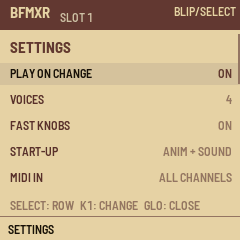
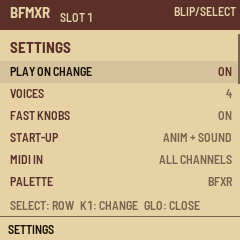
0.7: 20 palettes, FX shakes the screen, EDIT fires an energy ball
GLO > PALETTE: 20 palettes, each checked for contrast (ink >= 7, labels >= 4.5,
the header >= 3, selected values >= 3), seen at once and kept. FX shakes the
whole picture for 280 ms, dying away; EDIT sends a 12x8 pixel energy ball (drawn
2x2, a flickering tail and sparks) across the header in 450 ms.

Claude-Session: https://claude.ai/code/session_01P2YZfcTCoPyuHSCDNbEdpU

diff --git a/app/app.c b/app/app.c
@@ -13,20 +13,54 @@
  *   SAVE            keep the sound (it is back at the next power-on); MASTER the volume
  *   SAVE + a white key   store the sound in that slot (16 slots, one a white key)
  *   SEL + a white key    recall the slot's sound and play it
- *   GLO             the settings: play on change, voices, fast knobs, start-up, MIDI in channel
+ *   GLO             the settings: play on change, voices, fast knobs, start-up, MIDI in channel, palette
  * The slots go to and from a computer over USB SysEx (the site's Library page): see "the slots over USB" below. */
 #include "fastmath.h"
 #include "bfxr.h"
 #include "splash_data.h"                         /* the start-up animation and sound (tools/gen_splash.py) */
 
 /* the colours: bfxr2's tan ground, cream, maroon */
-#define K_BG RGB(231, 209, 167)
-#define K_ROW RGB(214, 194, 158)
-#define K_TRACK RGB(204, 189, 161)
-#define K_INK RGB(30, 16, 12)
-#define K_LABEL RGB(94, 48, 40)
-#define K_BAR RGB(102, 57, 49)
-#define K_SOFT RGB(147, 116, 98)
+/* the palettes (GLO > PALETTE): ground, row, track, ink, label, accent, soft; the row, track and soft blended from the
+ * ground and the ink. Each checked for contrast (WCAG): ink on the ground >= 7, labels >= 4.5, the ground's colour on
+ * the accent (the header) >= 3, the accent on a row (a selected value) >= 3 */
+typedef struct { const char *name; uint16_t c[7]; } kpal_t;
+static const kpal_t KPALS[] = {
+    {"BFXR", {0xE694, 0xD613, 0xC591, 0x1881, 0x5985, 0x5985, 0x7B2A}},
+    {"NIGHT", {0x0862, 0x2104, 0x3186, 0xEF7E, 0xAD57, 0x7D5F, 0x8C51}},
+    {"POCKET", {0xC70A, 0xB689, 0xA608, 0x08E1, 0x1A23, 0x1A23, 0x5BA5}},
+    {"CGA", {0x0000, 0x10A2, 0x2945, 0xFFFF, 0x57FF, 0xFABF, 0x8C71}},
+    {"AMBER", {0x1060, 0x20C1, 0x3942, 0xFDEB, 0xD467, 0xFCA3, 0x9366}},
+    {"MINT", {0xE7BD, 0xD73B, 0xC6B9, 0x1184, 0x2B09, 0x13CB, 0x6C4F}},
+    {"OCEAN", {0x08C5, 0x1947, 0x29C9, 0xDF7F, 0x85BB, 0x3D5E, 0x7C74}},
+    {"SUNSET", {0x2885, 0x3906, 0x4988, 0xFF19, 0xF511, 0xFB6A, 0x9C30}},
+    {"BUBBLEGUM", {0xFEFD, 0xEE7B, 0xE5F9, 0x3845, 0x914C, 0xD150, 0x9350}},
+    {"MONO", {0x0000, 0x10A2, 0x2945, 0xFFFF, 0xAD55, 0xCE59, 0x8C71}},
+    {"PAPER", {0xF79D, 0xE71A, 0xD698, 0x18E3, 0x5AAA, 0x2945, 0x7BEE}},
+    {"HI-CON", {0x0000, 0x10A2, 0x2945, 0xFFFF, 0xFF40, 0xFF40, 0x8C71}},
+    {"VAPOR", {0x1846, 0x28E8, 0x416A, 0xF73F, 0x7EFE, 0xFAD9, 0x9414}},
+    {"FOREST", {0x1102, 0x2184, 0x3206, 0xE77A, 0xAE51, 0x7DEB, 0x848F}},
+    {"LAVA", {0x1840, 0x28C2, 0x3965, 0xFF7B, 0xF4AC, 0xFA83, 0x942F}},
+    {"ICE", {0xEF9F, 0xD71D, 0xC69B, 0x08E5, 0x32D0, 0x1B75, 0x73F1}},
+    {"CANDY", {0xFFDB, 0xEF3A, 0xE6B8, 0x38A8, 0x79F1, 0x9159, 0x93D1}},
+    {"8-BIT", {0x0000, 0x10A2, 0x2945, 0xFFFF, 0x3DFF, 0xE00B, 0x8C51}},
+    {"BREADBIN", {0x4190, 0x4A11, 0x5A73, 0xE73F, 0xB5BE, 0xA4BF, 0x9CB9}},
+    {"MIDNIGHT", {0x0043, 0x10C5, 0x2167, 0xD6FF, 0x8CB9, 0xFE4A, 0x73F2}},
+};
+#define NPALS ((uint32_t)(sizeof KPALS / sizeof KPALS[0]))
+static uint16_t kc[7];
+#define K_BG kc[0]
+#define K_ROW kc[1]
+#define K_TRACK kc[2]
+#define K_INK kc[3]
+#define K_LABEL kc[4]
+#define K_BAR kc[5]
+#define K_SOFT kc[6]
+static void pal_apply(uint32_t i)
+{
+    uint32_t k;
+    for (k = 0; k < 7u; k++)
+        kc[k] = KPALS[i % NPALS].c[k];
+}
 
 #define SET_MAGIC 0x42465831u            /* "BFX1": the settings record; another magic loads a fresh sound */
 typedef struct {
@@ -42,7 +76,8 @@ typedef struct {
     uint8_t fast_knobs;                  /* 1: a fast turn moves 3x */
     uint8_t startup;                     /* 0 animation and sound, 1 animation only, 2 off */
     uint8_t midi_ch;                     /* MIDI in: 0 every channel, 1 .. 16 one */
-    uint8_t cfg_rsv[3];
+    uint8_t palette;                     /* KPALS */
+    uint8_t cfg_rsv[2];
 } settings_t;
 #define SET_OLD_SIZE ((uint32_t)__builtin_offsetof(settings_t, play_on_change))   /* the record before the menu's settings */
 static settings_t set;
@@ -194,7 +229,8 @@ static void cfg_defaults(void)
     set.fast_knobs = 1;
     set.startup = 0;
     set.midi_ch = 0;
-    set.cfg_rsv[0] = set.cfg_rsv[1] = set.cfg_rsv[2] = 0;
+    set.palette = 0;
+    set.cfg_rsv[0] = set.cfg_rsv[1] = 0;
 }
 
 static void settings_fresh(void)
@@ -222,7 +258,13 @@ static void clamp_sound(float *p)                /* a stored or received sound, 
     }
 }
 
+static void app_init_settings(void);
 void app_init(void)
+{
+    app_init_settings();
+    pal_apply(set.palette);
+}
+static void app_init_settings(void)
 {
     uint32_t k;
     app_panic();                                 /* (silence: a restart in the simulator keeps the old RAM) */
@@ -243,7 +285,7 @@ void app_init(void)
     }
     clamp_sound(set.p);
     if (set.play_on_change > 1u || set.voices < 1u || set.voices > NVOICES || set.fast_knobs > 1u ||
-        set.startup > 2u || set.midi_ch > 16u)
+        set.startup > 2u || set.midi_ch > 16u || set.palette >= NPALS)
         cfg_defaults();
 }
 
@@ -270,6 +312,7 @@ static struct {
     int32_t playing;                    /* as last drawn */
     uint8_t save_used;                   /* SAVE is held and a white key stored a slot: no plain save on release */
     uint8_t menu, menu_row;              /* the GLO menu is open; its row */
+    uint32_t shake_t0, shot_t0;          /* FX's screen shake, EDIT's energy ball: when they began (0: none) */
     uint8_t redraw;
 } ui;
 
@@ -697,8 +740,9 @@ int app_sysex(const uint8_t *p, uint32_t n)      /* the bytes between F0 and F7 
 /* ------------------------------------------------------------- the GLO menu --- */
 /* GLO opens and closes it (HOME closes it too): SELECT picks a row, K1 or ALGO changes it. Closing keeps the settings
  * (with the sound, as SAVE does). The keys, PLAY and the octave work as ever meanwhile. */
-enum { MENU_POC, MENU_VOICES, MENU_FAST, MENU_STARTUP, MENU_MIDI, MENU_ROWS };
-static const char *const MENU_LABEL[MENU_ROWS] = {"PLAY ON CHANGE", "VOICES", "FAST KNOBS", "START-UP", "MIDI IN"};
+enum { MENU_POC, MENU_VOICES, MENU_FAST, MENU_STARTUP, MENU_MIDI, MENU_PALETTE, MENU_ROWS };
+static const char *const MENU_LABEL[MENU_ROWS] = {"PLAY ON CHANGE", "VOICES", "FAST KNOBS", "START-UP", "MIDI IN",
+                                                  "PALETTE"};
 
 static void menu_value(uint32_t row, char *t)
 {
@@ -713,6 +757,7 @@ static void menu_value(uint32_t row, char *t)
         break;
     case MENU_FAST: text_cat(t, set.fast_knobs ? "ON" : "OFF"); break;
     case MENU_STARTUP: text_cat(t, SU[set.startup % 3u]); break;
+    case MENU_PALETTE: text_cat(t, KPALS[set.palette % NPALS].name); break;
     default:
         if (!set.midi_ch)
             text_cat(t, "ALL CHANNELS");
@@ -741,6 +786,10 @@ static void menu_change(int32_t e)
     case MENU_VOICES: set.voices = (uint8_t)clamp((int32_t)set.voices + d, 1, NVOICES); break;
     case MENU_FAST: set.fast_knobs ^= 1u; break;
     case MENU_STARTUP: set.startup = (uint8_t)wrapi((int32_t)set.startup + d, 0, 2); break;
+    case MENU_PALETTE:
+        set.palette = (uint8_t)wrapi((int32_t)set.palette + d, 0, (int32_t)NPALS - 1);
+        pal_apply(set.palette);                  /* (seen at once) */
+        break;
     default: set.midi_ch = (uint8_t)wrapi((int32_t)set.midi_ch + d, 0, 16); break;
     }
     set_dirty = 1;
@@ -799,8 +848,10 @@ static void input(void)
             continue;                            /* (the menu open: the rest wait) */
         if (k == B_PLAY)
             play_now();
-        else if (k == B_EDIT)
+        else if (k == B_EDIT) {
             generate(set.gen);
+            ui.shot_t0 = plat_ms() | 1u;         /* an energy ball across the header */
+        }
         else if (k == B_FX) {
             bfxr_sound_t s;
             sound_get(&s);
@@ -808,6 +859,7 @@ static void input(void)
             bfxr_mutate(&s);
             sound_put(&s);
             app_say("MUTATED", "");
+            ui.shake_t0 = plat_ms() | 1u;        /* the screen shakes */
             play_now();
         } else if (k == B_OCTDN)
             octave_step(-1);
@@ -898,6 +950,52 @@ static void value_bar(int32_t x, int32_t y, int32_t w, uint32_t k)
     }
 }
 
+/* ------------------------------------------------------------ the animations --- */
+#define SHAKE_MS 280u
+#define SHOT_MS 450u
+/* EDIT's energy ball: 12 x 8 pixels drawn 2 x 2, two frames of its flickering tail. . none, d deep, b blue,
+ * c cyan, w white */
+static const char *const SHOT[2][8] = {
+    {"...ddddbb...", ".dddbbbccbb.", "d.dbbccwwcb.", ".ddbccwwwwcb", "d.dbccwwwwcb", ".ddbbccwwcb.",
+     "..ddbbbccbb.", ".d..dddbb..."},
+    {"..d.ddbbb...", "d.ddbbbccbb.", ".ddbbccwwcb.", "dddbccwwwwcb", ".ddbccwwwwcb", "d.dbbccwwcb.",
+     ".dddbbbccbb.", "....ddddb..."}};
+
+static void draw_shot(uint32_t ms)               /* across the header, left to right */
+{
+    uint32_t r, c, f = (ms / 50u) & 1u;
+    int32_t x0 = -24 + (int32_t)(ms * 288u / SHOT_MS), y0 = 7;
+    for (r = 0; r < 8u; r++)
+        for (c = 0; c < 12u; c++) {
+            char ch = SHOT[f][r][c];
+            uint16_t col = ch == 'w' ? RGB(255, 255, 255) : ch == 'c' ? RGB(120, 230, 255) :
+                           ch == 'b' ? RGB(40, 130, 255) : ch == 'd' ? RGB(20, 50, 190) : 0;
+            int32_t x = x0 + 2 * (int32_t)c;
+            if (col && x >= 0 && x < 239)
+                cv_rect(x, y0 + 2 * (int32_t)r, 2, 2, col);
+        }
+    for (c = 0; c < 4u; c++) {                   /* sparks left behind */
+        int32_t x = x0 - 6 - (int32_t)c * 9 - (int32_t)((ms / 30u + c * 7u) % 5u);
+        int32_t y = y0 + 2 + (int32_t)((ms / 40u + c * 3u) % 12u);
+        if (x >= 0 && x < 238)
+            cv_rect(x, y, 2, 2, c & 1u ? RGB(120, 230, 255) : RGB(40, 130, 255));
+    }
+}
+
+static void shake_canvas(uint32_t ms)            /* the whole picture moved a few pixels, the wobble dying away */
+{
+    int32_t a = (int32_t)(6u * (SHAKE_MS - ms) / SHAKE_MS), k = (int32_t)(ms / 35u);
+    int32_t dx = (k & 1) ? a : -a, dy = (k & 2) ? a / 2 : -(a / 2), x, y;
+    uint16_t bg = swap16(K_BG);
+    if (!dx && !dy)
+        return;
+    for (y = dy > 0 ? 239 : 0; dy > 0 ? y >= 0 : y < 240; y += dy > 0 ? -1 : 1)
+        for (x = dx > 0 ? 239 : 0; dx > 0 ? x >= 0 : x < 240; x += dx > 0 ? -1 : 1) {
+            int32_t sx = x - dx, sy = y - dy;
+            cv_px[y * 240 + x] = (sx >= 0 && sx < 240 && sy >= 0 && sy < 240) ? cv_px[sy * 240 + sx] : bg;
+        }
+}
+
 #define ROWS 9
 #define ROW_H 20
 #define LIST_Y 34
@@ -916,11 +1014,11 @@ static void draw(void)
         sl[5] = (char)(set.slot >= 10 ? '1' : '0' + set.slot);
         sl[6] = (char)(set.slot >= 10 ? '0' + set.slot - 10 : 0);
         sl[7] = 0;
-        cv_text((int32_t)r + 10, 10, &FONT_XS, sl, K_TRACK);
+        cv_text((int32_t)r + 10, 10, &FONT_XS, sl, K_BG);
     }
     cv_text(236 - text_w(&FONT_XS, BFXR_GEN_NAMES[set.gen]), 4, &FONT_XS, BFXR_GEN_NAMES[set.gen], K_BG);
     if (ui.playing)
-        cv_text(236 - text_w(&FONT_XS, "PLAYING"), 16, &FONT_XS, "PLAYING", K_TRACK);
+        cv_text(236 - text_w(&FONT_XS, "PLAYING"), 16, &FONT_XS, "PLAYING", K_BG);
     /* the parameters: the four K1 .. K4 change are marked */
     for (r = 0; r < ROWS; r++) {
         uint32_t k = (uint32_t)top + r;
@@ -946,7 +1044,7 @@ static void draw(void)
         cv_rect(0, 32, 240, 182, K_BG);
         cv_text(10, 40, &FONT_B, "SETTINGS", K_BAR);
         for (r = 0; r < MENU_ROWS; r++) {
-            int32_t y = 66 + (int32_t)r * 26;
+            int32_t y = 64 + (int32_t)r * 22;
             int on = r == ui.menu_row;
             if (on)
                 cv_rect(0, y - 3, 240, 22, K_ROW);
@@ -987,6 +1085,10 @@ static void draw(void)
         text_cat(t, o);
         cv_text(8, 222, &FONT_XS, t, K_SOFT);
     }
+    if (ui.shot_t0 && now - ui.shot_t0 < SHOT_MS)
+        draw_shot(now - ui.shot_t0);
+    if (ui.shake_t0 && now - ui.shake_t0 < SHAKE_MS)
+        shake_canvas(now - ui.shake_t0);
     cv_blit(0, 0);
 }
 
@@ -1033,6 +1135,13 @@ void app_frame(void)
         ui.playing = bx_playing;
         ui.redraw = 1;
     }
+    if (ui.shot_t0 || ui.shake_t0) {             /* an animation: a picture every frame until it ends */
+        if (ui.shot_t0 && now - ui.shot_t0 >= SHOT_MS)
+            ui.shot_t0 = 0;
+        if (ui.shake_t0 && now - ui.shake_t0 >= SHAKE_MS)
+            ui.shake_t0 = 0;
+        ui.redraw = 1;
+    }
     if (ui.msg_until && now >= ui.msg_until) {
         ui.msg_until = 0;
         ui.redraw = 1;
@@ -1076,6 +1185,10 @@ int app_expect(const char *what, int *got)
         *got = set.startup;
     else if (!strcmp(what, "midich"))
         *got = set.midi_ch;
+    else if (!strcmp(what, "palette"))
+        *got = set.palette;
+    else if (!strcmp(what, "anim"))              /* 1 shake, 2 energy ball, 3 both */
+        *got = (ui.shake_t0 ? 1 : 0) | (ui.shot_t0 ? 2 : 0);
     else if (what[0] == 'p' && what[1] >= '0' && what[1] <= '9')   /* pN: parameter N x 100 */
         *got = (int)(set.p[atoi(what + 1) % BP_COUNT] * 100.0f + (set.p[atoi(what + 1) % BP_COUNT] < 0 ? -0.5f : 0.5f));
     else

diff --git a/README.md b/README.md
@@ -41,8 +41,8 @@ Press any key or button to skip it. **GLO → START-UP** turns the sound or the 
 | Control | What it does |
 | --- | --- |
 | **PRESET** | Picks a kind of sound and makes a new one, then plays it: PICKUP/COIN, LASER/SHOOT, EXPLOSION, POWERUP, HIT/HURT, JUMP, BLIP/SELECT, RANDOMIZE. Each click is a fresh sound |
-| **EDIT** | Another new sound of the same kind. Press it until you hear one you like |
-| **FX** | Mutate: nudges the sound a little in a random direction (and sometimes changes the wave) |
+| **EDIT** | Another new sound of the same kind (an energy ball flies across the top of the screen). Press it until you hear one you like |
+| **FX** | Mutate: nudges the sound a little in a random direction, and sometimes changes the wave. The screen shakes |
 | **SELECT** | Scrolls the list. The four highlighted rows move with it |
 | **K1 to K4** | Change the four highlighted rows. Turn slowly for fine steps (1 % of the range), fast for bigger ones |
 | **ALGO** | Changes the wave, from anywhere in the list |
@@ -78,8 +78,11 @@ work while the settings are open.
 | FAST KNOBS | A fast turn moves 3 steps a click instead of 1 | ON |
 | START-UP | ANIM + SOUND, ANIMATION (silent), or OFF | ANIM + SOUND |
 | MIDI IN | The MIDI channel BFMXR plays from: all, or one of 1 to 16 | ALL CHANNELS |
+| PALETTE | The screen's colours, 20 to choose from: BFXR, NIGHT, POCKET, CGA, AMBER, MINT, OCEAN, SUNSET, BUBBLEGUM, MONO, PAPER, HI-CON, VAPOR, FOREST, LAVA, ICE, CANDY, 8-BIT, BREADBIN, MIDNIGHT. Each changes the screen at once | BFXR |
 
 ![The settings](docs/menu.png)
+
+![The 20 palettes](docs/palettes.png)
 
 ## Making a sound
 
